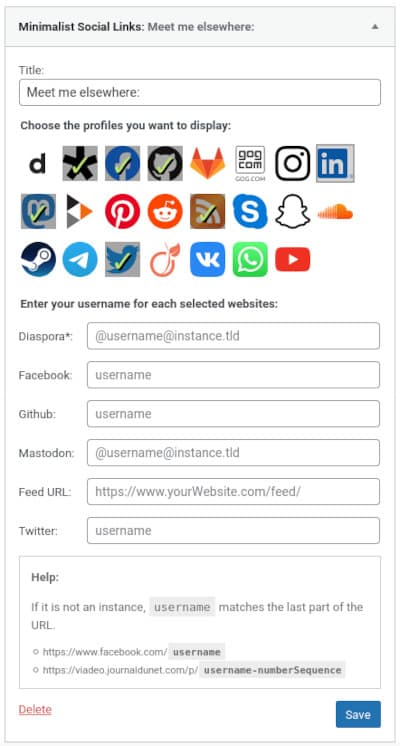
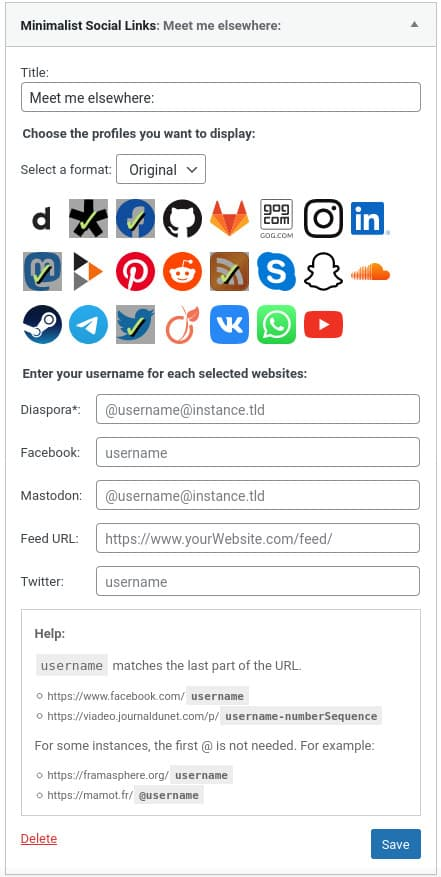
docs: update widget introduction and screenshots

diff --git a/README.md b/README.md
@@ -6,11 +6,16 @@ A WordPress widget to display links to your social media profiles (among others)
 
 ## Introduction
 
-It already exists plugins to display links to social media. However, many of them do not respect the brand guidelines. Logos are not up to date. The spacings rules are not respected. Logos are distorted. And so on.
+This widget allows you to display links to your social profiles and RSS feed. The links are displayed as clickable logos.
 
-I'm not saying that this project respects them totally. It's difficult to keep an harmony between the links while the logos have different shapes and spacing rules. But I'm trying to respect these rules. And if you have any ideas for improving the project while respecting the brand rules, I'm all ears.
+Two logo formats are proposed:
 
-I'm probably foolish when the brands themselves don't bother to play by their rules. For example, if you look the Instagram brand guidelines, all other logos are old. Yes, I refer to the Facebook logo for example. Same corporation and yet, the rules are not respected. Even so, I would like this project respect these rules.
+-   `Original`: the original logos that try to respect the branding guidelines.
+-   `Square`: the logos transformed into a square format.
+
+The `Original` format works fine on light themes. However, on dark themes, some logos are hardly visible (Github or Diaspora\* for example). As the widget cannot guess your theme or your mechanism for changing themes, it is difficult to (dynamically) come up with an alternative logo.
+
+The `Square` format works fine on both themes. The background for some logos are still dark, but the logos are readable.
 
 ## Install
 
@@ -47,9 +52,9 @@ You can download this plugin on Github, then extract it in `/wp-content/plugins/
 
 Examples:
 
-| Twenty Nineteen Theme                                                  | Twenty Twelve Theme                                                  |
-| ---------------------------------------------------------------------- | -------------------------------------------------------------------- |
-| ![Public view 1](./assets/images/mslwidget-public-twenty-nineteen.jpg) | ![Public view 2](./assets/images/mslwidget-public-twenty-twelve.jpg) |
+| Original Format                                            | Square Format                                          |
+| ---------------------------------------------------------- | ------------------------------------------------------ |
+| ![Original](./assets/images/mslwidget-original-format.jpg) | ![Square](./assets/images/mslwidget-square-format.jpg) |
 
 ## Disclaimer
 
@@ -57,7 +62,9 @@ I'm not using all these websites, so it is possible that some links are wrong. F
 
 Some logos are not officially available in SVG format (or they are well hidden) so there may be some differences.
 
-If you want to overwrite the sizes of the links on pubic view, remember tu specify a rule for `pointer: fine` media query. The sizes are not the same on touch screens and devices using a mouse.
+The size is not modifiable in the widget admin. But, you can change it in your theme by overriding the default `.mslwidget__logo` width and height.
+
+**Note:** The widget uses a media query `pointer: fine` to display a different size if it is a touch screen or a screen with a pointer device.
 
 ## License
 
